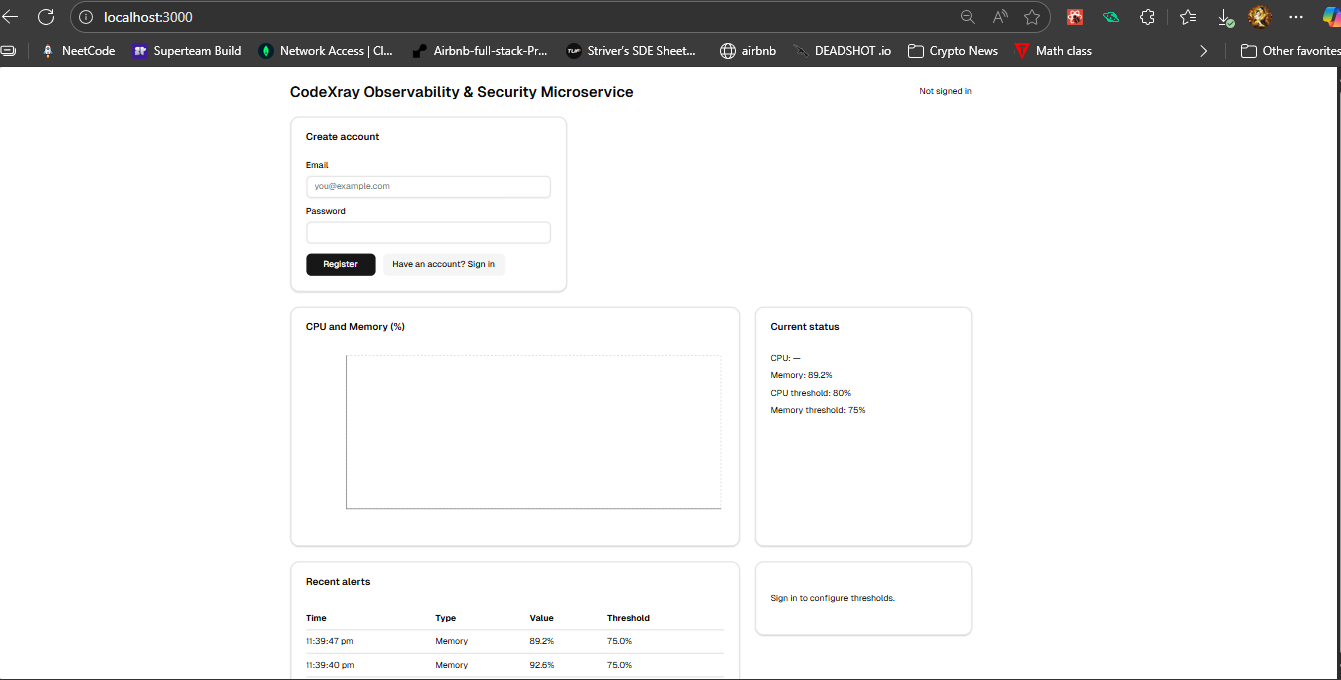
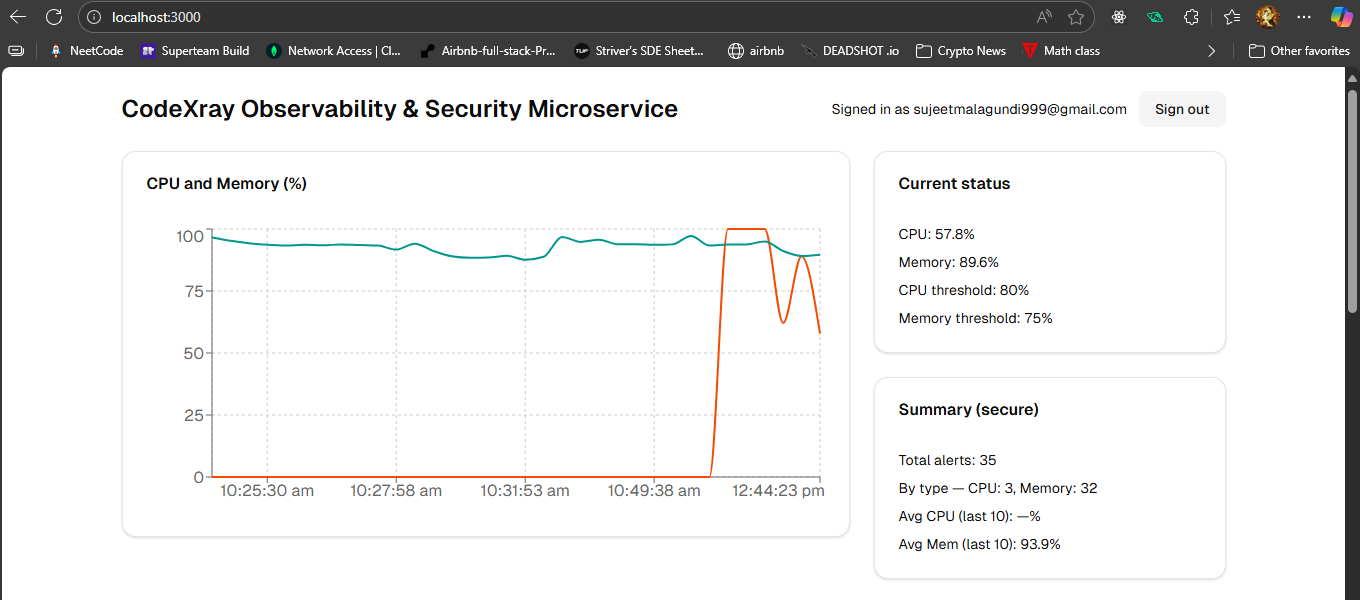
Fix CPU  bug and update dashboard UI

diff --git a/app/page.tsx b/app/page.tsx
@@ -12,7 +12,16 @@ import { AlertsTable } from "@/components/alerts-table"
 type MetricReading = { ts: number; cpuPercent: number; memPercent: number }
 type Alert = { id: string; type: "CPU" | "Memory"; value: number; threshold: number; ts: number }
 
-const fetcher = (url: string) => fetch(url).then((r) => r.json())
+const fetcher = async (url: string) => {
+  const res = await fetch(url, { cache: "no-store" })
+  const text = await res.text()
+  if (!res.ok) throw new Error(text.slice(0, 200) || "Request failed")
+  try {
+    return JSON.parse(text)
+  } catch {
+    throw new Error("Non-JSON response: " + text.slice(0, 120))
+  }
+}
 
 export default function HomePage() {
   const [token, setToken] = useState<string | null>(null)
@@ -23,13 +32,14 @@ export default function HomePage() {
     setEmail(localStorage.getItem("email"))
   }, [])
 
-  const { data, isLoading, mutate } = useSWR<{
+  const { data, isLoading, error, mutate } = useSWR<{
     latest: MetricReading
     readings: MetricReading[]
     alertsRecent: Alert[]
     thresholds: { cpuThreshold: number; memThreshold: number }
   }>("/api/metrics?n=100", fetcher, { refreshInterval: 5000 })
 
+  // Summary (secure) - only fetch when token exists
   const summaryFetcher = (url: string) =>
     fetch(url, { headers: token ? { Authorization: `Bearer ${token}` } : undefined }).then((r) => r.json())
   const { data: summary } = useSWR(token ? "/api/summary?n=10" : null, summaryFetcher, { refreshInterval: 10000 })
@@ -82,25 +92,19 @@ export default function HomePage() {
             </CardHeader>
             <CardContent className="grid gap-2 text-sm">
               <div>
-                CPU: {typeof data?.latest?.cpuPercent === "number"
+                CPU:{" "}
+                {data?.latest && Number.isFinite(data.latest.cpuPercent)
                   ? `${data.latest.cpuPercent.toFixed(1)}%`
                   : "—"}
               </div>
               <div>
-                Memory: {typeof data?.latest?.memPercent === "number"
+                Memory:{" "}
+                {data?.latest && Number.isFinite(data.latest.memPercent)
                   ? `${data.latest.memPercent.toFixed(1)}%`
                   : "—"}
               </div>
-              <div>
-                CPU threshold: {typeof data?.thresholds?.cpuThreshold === "number"
-                  ? `${data.thresholds.cpuThreshold}%`
-                  : "—"}
-              </div>
-              <div>
-                Memory threshold: {typeof data?.thresholds?.memThreshold === "number"
-                  ? `${data.thresholds.memThreshold}%`
-                  : "—"}
-              </div>
+              <div>CPU threshold: {data?.thresholds ? `${data.thresholds.cpuThreshold}%` : "—"}</div>
+              <div>Memory threshold: {data?.thresholds ? `${data.thresholds.memThreshold}%` : "—"}</div>
             </CardContent>
           </Card>
 
@@ -114,21 +118,21 @@ export default function HomePage() {
                 <div>
                   By type — CPU: {summary.byType?.CPU ?? 0}, Memory: {summary.byType?.Memory ?? 0}
                 </div>
-                <div>
-                  Avg CPU (last 10): {typeof summary.averages?.cpuPercent === "number"
-                    ? `${summary.averages.cpuPercent.toFixed(1)}%`
-                    : "—"}
-                </div>
-                <div>
-                  Avg Mem (last 10): {typeof summary.averages?.memPercent === "number"
-                    ? `${summary.averages.memPercent.toFixed(1)}%`
-                    : "—"}
-                </div>
+                <div>Avg CPU (last 10): {summary.averages?.cpuPercent?.toFixed?.(1) ?? "—"}%</div>
+                <div>Avg Mem (last 10): {summary.averages?.memPercent?.toFixed?.(1) ?? "—"}%</div>
               </CardContent>
             </Card>
           )}
         </div>
       </section>
+
+      {error && (
+        <Card className="border-destructive">
+          <CardContent className="py-3 text-sm text-destructive">
+            Metrics error: {String(error.message || error)}
+          </CardContent>
+        </Card>
+      )}
 
       <section className="grid grid-cols-1 lg:grid-cols-3 gap-6">
         <div className="lg:col-span-2">

diff --git a/lib/metrics.ts b/lib/metrics.ts
@@ -79,6 +79,9 @@
 //   return reading
 // }
 
+// Metrics collection helper with systeminformation fallback to node:os.
+// Generates alerts based on thresholds.
+
 import { store } from "./store"
 import type { Alert, MetricReading } from "./types"
 import { generateId } from "./security"
@@ -88,28 +91,33 @@ async function getCpuPercent(): Promise<number> {
   try {
     const si = await import("systeminformation")
     const load = await si.currentLoad()
-    return Math.max(0, Math.min(100, load.currentload))
-  } catch (err) {
-    console.warn("[metrics] systeminformation CPU failed:", err)
-
-    const start = os.cpus()
-    await new Promise((r) => setTimeout(r, 500))
-    const end = os.cpus()
-
-    let idleDiff = 0
-    let totalDiff = 0
-    for (let i = 0; i < start.length; i++) {
-      const s = start[i].times
-      const e = end[i].times
-      const idle = e.idle - s.idle
-      const total = e.user - s.user + (e.nice - s.nice) + (e.sys - s.sys) + (e.irq - s.irq) + idle
-      idleDiff += idle
-      totalDiff += total
+    const pct = Number(load.currentload)
+    if (Number.isFinite(pct)) {
+      return Math.max(0, Math.min(100, pct))
     }
-
-    const usage = (1 - idleDiff / totalDiff) * 100
-    return Math.max(0, Math.min(100, usage))
+  } catch {
+    // ignore and use fallback
   }
+  // Fallback using sampling with os.cpus()
+  const start = os.cpus()
+  await new Promise((r) => setTimeout(r, 500))
+  const end = os.cpus()
+  let idleDiff = 0
+  let totalDiff = 0
+  for (let i = 0; i < start.length; i++) {
+    const s = start[i].times
+    const e = end[i].times
+    const idle = e.idle - s.idle
+    const total = e.user - s.user + (e.nice - s.nice) + (e.sys - s.sys) + (e.irq - s.irq) + idle
+    idleDiff += idle
+    totalDiff += total
+  }
+  if (totalDiff <= 0) {
+    return 0 // guard against division by zero leading to NaN
+  }
+  const usage = (1 - idleDiff / totalDiff) * 100
+  const clamped = Math.max(0, Math.min(100, usage))
+  return Number.isFinite(clamped) ? clamped : 0
 }
 
 async function getMemPercent(): Promise<number> {
@@ -118,15 +126,15 @@ async function getMemPercent(): Promise<number> {
     const mem = await si.mem()
     const used = mem.active ?? mem.used
     const pct = (used / mem.total) * 100
-    return Math.max(0, Math.min(100, pct))
-  } catch (err) {
-    console.warn("[metrics] systeminformation Memory failed:", err)
-
+    const clamped = Math.max(0, Math.min(100, pct))
+    return Number.isFinite(clamped) ? clamped : 0
+  } catch {
     const total = os.totalmem()
     const free = os.freemem()
     const used = total - free
     const pct = (used / total) * 100
-    return Math.max(0, Math.min(100, pct))
+    const clamped = Math.max(0, Math.min(100, pct))
+    return Number.isFinite(clamped) ? clamped : 0
   }
 }
 
@@ -135,8 +143,7 @@ export async function collectAndStoreMetrics(): Promise<MetricReading> {
   const reading: MetricReading = { ts: Date.now(), cpuPercent, memPercent }
   store.addMetric(reading)
 
-  const thresholds = store.getThresholds() ?? { cpuThreshold: 80, memThreshold: 80 }
-
+  const thresholds = store.getThresholds()
   if (cpuPercent > thresholds.cpuThreshold) {
     const alert: Alert = {
       id: generateId("alert"),
@@ -147,7 +154,6 @@ export async function collectAndStoreMetrics(): Promise<MetricReading> {
     }
     store.addAlert(alert)
   }
-
   if (memPercent > thresholds.memThreshold) {
     const alert: Alert = {
       id: generateId("alert"),

diff --git a/components/charts/metrics-chart.tsx b/components/charts/metrics-chart.tsx
@@ -1,59 +1,38 @@
 "use client"
 
-import {
-  LineChart,
-  Line,
-  XAxis,
-  YAxis,
-  CartesianGrid,
-  Tooltip,
-  ResponsiveContainer,
-} from "recharts"
+import { LineChart, Line, XAxis, YAxis, CartesianGrid, Tooltip, ResponsiveContainer } from "recharts"
 import { Card, CardContent, CardHeader, CardTitle } from "@/components/ui/card"
 
 type Reading = { ts: number; cpuPercent: number; memPercent: number }
 
 export function MetricsChart({ data }: { data: Reading[] }) {
-  const chartData = data
-    .filter(
-      (d) =>
-        typeof d.cpuPercent === "number" &&
-        typeof d.memPercent === "number"
-    )
-    .map((d) => ({
-      ts: new Date(d.ts).toLocaleTimeString(),
-      cpu: Number(d.cpuPercent.toFixed(1)),
-      mem: Number(d.memPercent.toFixed(1)),
-    }))
-
+  const chartData = data.map((d) => ({
+    ts: new Date(d.ts).toLocaleTimeString(),
+    cpu: Number.isFinite(d.cpuPercent) ? Number(d.cpuPercent.toFixed(1)) : null,
+    mem: Number.isFinite(d.memPercent) ? Number(d.memPercent.toFixed(1)) : null,
+  }))
   return (
     <Card>
       <CardHeader>
         <CardTitle className="text-balance">CPU and Memory (%)</CardTitle>
       </CardHeader>
       <CardContent className="h-72">
-        <ResponsiveContainer width="100%" height="100%">
-          <LineChart data={chartData}>
-            <CartesianGrid strokeDasharray="3 3" />
-            <XAxis dataKey="ts" minTickGap={24} />
-            <YAxis domain={[0, 100]} />
-            <Tooltip />
-            <Line
-              type="monotone"
-              dataKey="cpu"
-              stroke="var(--color-chart-1)"
-              dot={false}
-              strokeWidth={2}
-            />
-            <Line
-              type="monotone"
-              dataKey="mem"
-              stroke="var(--color-chart-2)"
-              dot={false}
-              strokeWidth={2}
-            />
-          </LineChart>
-        </ResponsiveContainer>
+        {chartData.length === 0 ? (
+          <div className="h-full flex items-center justify-center text-sm text-muted-foreground">
+            No metrics yet. Keep this page open to start sampling.
+          </div>
+        ) : (
+          <ResponsiveContainer width="100%" height="100%">
+            <LineChart data={chartData}>
+              <CartesianGrid strokeDasharray="3 3" />
+              <XAxis dataKey="ts" minTickGap={24} />
+              <YAxis domain={[0, 100]} />
+              <Tooltip />
+              <Line type="monotone" dataKey="cpu" stroke="var(--color-chart-1)" dot={false} strokeWidth={2} />
+              <Line type="monotone" dataKey="mem" stroke="var(--color-chart-2)" dot={false} strokeWidth={2} />
+            </LineChart>
+          </ResponsiveContainer>
+        )}
       </CardContent>
     </Card>
   )

diff --git a/app/api/metrics/route.ts b/app/api/metrics/route.ts
@@ -2,6 +2,9 @@ import { type NextRequest, NextResponse } from "next/server"
 import { collectAndStoreMetrics } from "@/lib/metrics"
 import { store } from "@/lib/store"
 
+export const runtime = "nodejs"
+export const dynamic = "force-dynamic"
+
 export async function GET(req: NextRequest) {
   try {
     // Collect one fresh sample on each call
@@ -10,7 +13,27 @@ export async function GET(req: NextRequest) {
     const n = Number(url.searchParams.get("n") || 50)
     const readings = store.getLastNMetrics(Math.max(1, Math.min(200, n)))
     const alertsRecent = store.getLastNAlerts(20)
-    return NextResponse.json({ latest, readings, alertsRecent, thresholds: store.getThresholds() })
+
+    const safeLatest = {
+      ...latest,
+      cpuPercent: Number.isFinite(latest.cpuPercent) ? latest.cpuPercent : 0,
+      memPercent: Number.isFinite(latest.memPercent) ? latest.memPercent : 0,
+    }
+    const safeReadings = readings.map((r) => ({
+      ...r,
+      cpuPercent: Number.isFinite(r.cpuPercent) ? r.cpuPercent : 0,
+      memPercent: Number.isFinite(r.memPercent) ? r.memPercent : 0,
+    }))
+
+    console.log("[v0] /api/metrics sample", {
+      cpu: safeLatest.cpuPercent.toFixed(1),
+      mem: safeLatest.memPercent.toFixed(1),
+      n: safeReadings.length,
+    })
+    return NextResponse.json(
+      { latest: safeLatest, readings: safeReadings, alertsRecent, thresholds: store.getThresholds() },
+      { headers: { "Cache-Control": "no-store" } },
+    )
   } catch (e: any) {
     return NextResponse.json({ error: e.message || "internal error" }, { status: 500 })
   }

diff --git a/README.md b/README.md
@@ -2,10 +2,10 @@
 
 A simplified observability and security microservice that collects system metrics, generates alerts, and exposes secure APIs for reporting. Includes a bonus web dashboard for visualization and configuration, plus a standalone Log Analyzer script.
 
-![Dashboard Overview 1](/screenshots/dashboard-overview-1.png)
-![Dashboard Overview 2](/screenshots/dashboard-overview-2.png)
-![Alerts Table](/screenshots/alerts-table.png)
-![Thresholds Config](/screenshots/thresholds-config.png)
+![Dashboard Overview 1](/SCREENSHOTS/dashboard-overview-1.png)
+![Dashboard Overview 2](/SCREENSHOTS/dashboard-overview-2.png)
+![Alerts Table](/SCREENSHOTS/alerts-table.png)
+![Thresholds Config](/SCREENSHOTS/thresholds-config.png)
 
 ## Table of Contents
 - Overview
@@ -83,7 +83,6 @@ Outputs
 - Count of INFO, WARN, ERROR
 - Top 5 most frequent ERROR messages
 
-[SAMPLE OUTPUT PLACEHOLDER: log-analyzer-output.txt]
 
 ---
 
@@ -160,9 +159,9 @@ Reporting (secured)
   - Register, then log in to receive a session token
   - The dashboard components send the Authorization header automatically (when integrated with the auth form/session store)
 
-![Dashboard Overview 2](/screenshots/dashboard-overview-2.png)
-![Alerts Table](/screenshots/alerts-table.png)
-![Thresholds Config](/screenshots/thresholds-config.png)
+![Dashboard Overview 2](/SCREENSHOTS/dashboard-overview-2.png)
+![Alerts Table](/SCREENSHOTS/alerts-table.png)
+![Thresholds Config](/SCREENSHOTS/thresholds-config.png)
 ---
 
 ## Architecture Summary
